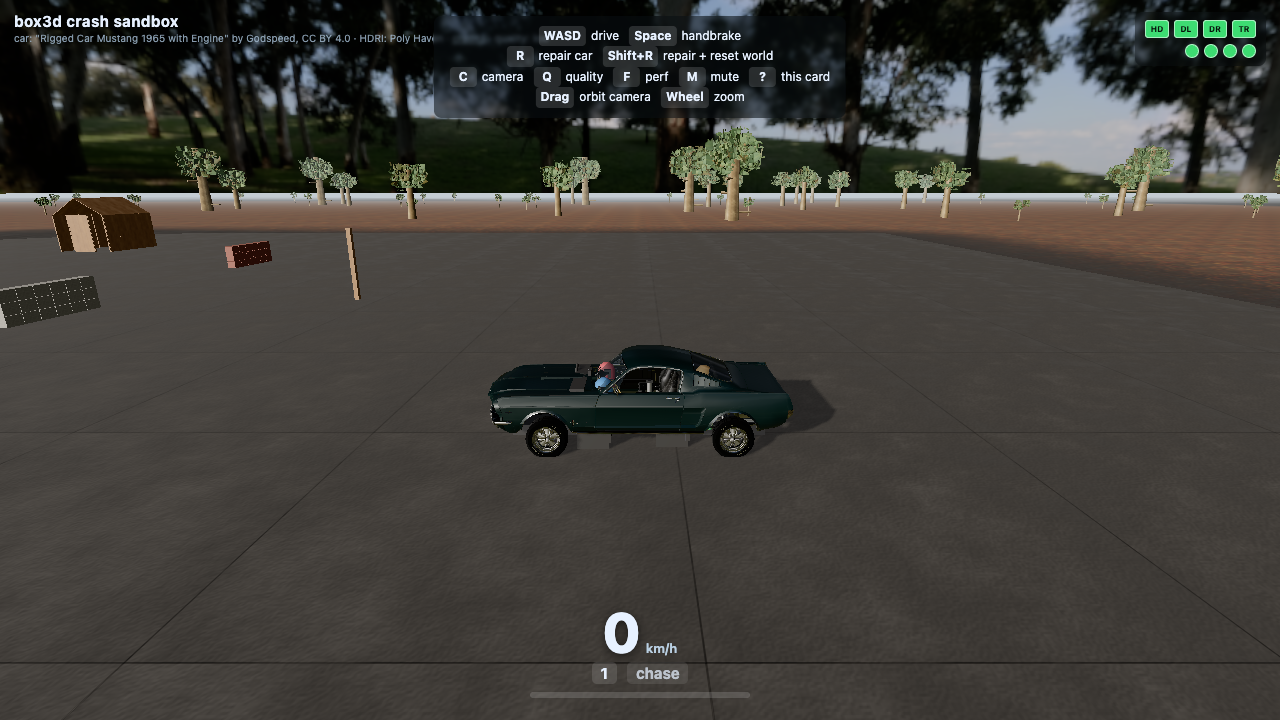
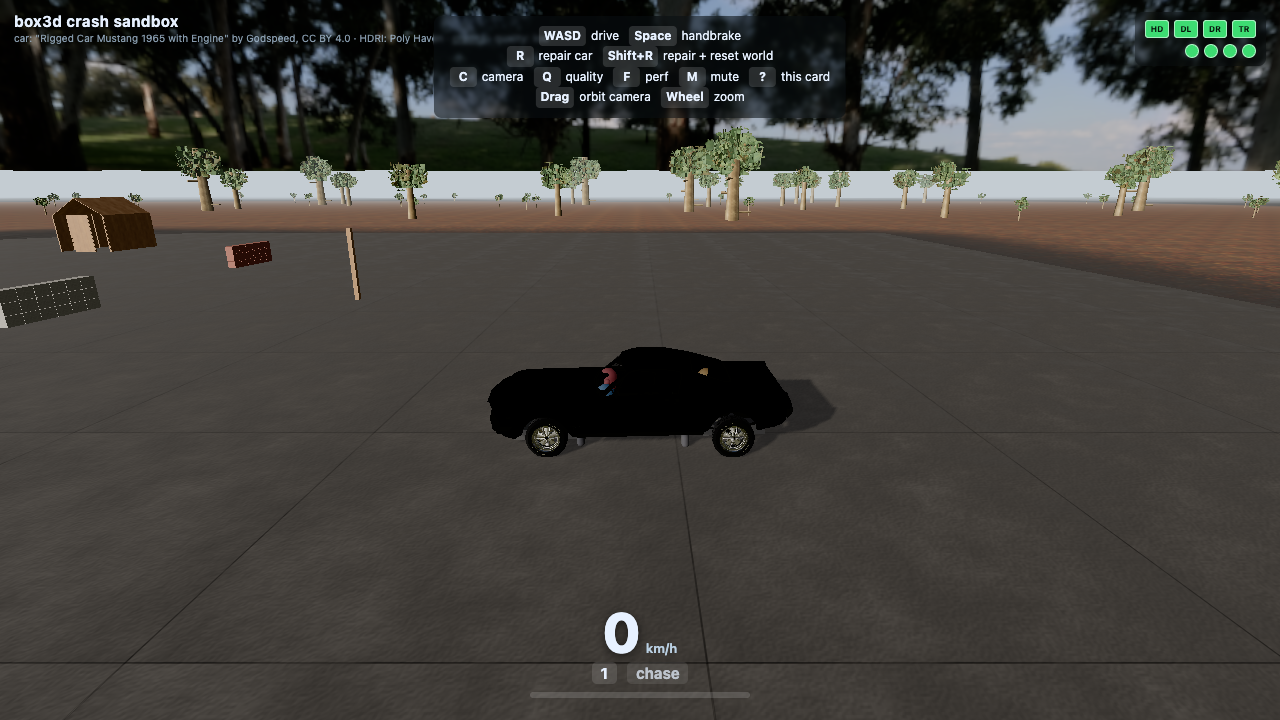
vehicle: Tier-3 stage 1 -- concave cabin-tub chassis (12 convex shapes) + mass parity
Replace the chassis's single convex hull with a ~12-shape concave cabin tub
(floorpan/nose/tail/roof/sills/A-B-C pillars, geometry.ts buildCabinShapes()), giving
the car a genuinely HOLLOW interior cavity for Tier-3 stage 2 to drop occupants into,
per docs/build-log/specs/compound-hull-design.md.

Mass parity is a hard gate and is met EXACTLY, not approximately: createVehicle() first
builds the legacy single-hull+ballast shape set, lets box3d integrate its mass, captures
getMassData(), destroys the temp shapes, builds the real cabin shapes (nominal density),
then stamps the captured mass/COM/inertia back via setMassData(). Result: chassis
mass/COM/inertia are byte-identical to HEAD (1291.000 kg, COM y=0.11969 z=-0.03996,
inertia diag 1125.1/1119.6/454.0), so all vehicle calibration survives untouched.

Outer-envelope parity: the nose reuses the old hull's exact 4 front vertices and the
floorpan spans only the cabin (nose/tail own the bottom in the crush zones) so a frontal
wall hit contacts exactly as the single hull did -- damage-hard-frontal is byte-identical
(dented 51, chassis-front 40, hood displacement 2.20m). Cabin greenhouse sides are left
as real open apertures (no test contacts them); ground clearance unchanged.

Gates: new sim/hull-cabin-tub.test.mjs green (12 shapes, exact mass parity, probe dropped
into the cabin falls through to rest on the floorpan -- impossible against a solid hull);
[…]

Changed region(s): [[0.0, 0.1833, 1.0, 0.3056], [0.375, 0.4583, 0.625, 0.6417]]

diff --git a/game/src/vehicle/geometry.ts b/game/src/vehicle/geometry.ts
@@ -58,6 +58,153 @@ export function buildChassisHullPoints(): Float32Array {
 	return points;
 }
 
+// ---------------------------------------------------------------------------------------------
+// Tier-3 STAGE 1: concave cabin-tub decomposition (docs/build-log/specs/compound-hull-design.md)
+// ---------------------------------------------------------------------------------------------
+// Replaces the single bevelled-box hull (buildChassisHullPoints() above -- KEPT, still used for the
+// mass-parity capture in vehicle.ts) with a set of convex shapes on the one dynamic chassis body.
+// box3d bodies carry N shapes natively (mass accumulates per shape), so N convex shapes = a concave
+// composite with a genuinely HOLLOW cabin cavity -- the interior Tier-3 stage 2 drops the occupant
+// filter into.
+//
+// PARITY PRINCIPLE: mass/COM/inertia are hard-set identical in vehicle.ts via setMassData(), so these
+// shapes' densities are NOMINAL and only their COLLISION geometry matters. The crash/drive tests only
+// ever contact the car FRONT-ON (drive +Z into a wall) or from BELOW (ground/terrain), so the union
+// here reconstructs the old hull's exact FRONT (nose) face, full BOTTOM (floorpan) face, REAR (tail)
+// face and TOP (roof) face; the cabin's greenhouse SIDES (window band) are left as genuine open
+// apertures -- no test contacts them, and that openness is the whole point of the concave cabin.
+//
+// The nose and tail are SOLID crush volumes in stage 1 (identical to the old solid hull there); the
+// engine bay is opened into a cavity only in stage 3. Their inward faces (FIREWALL_Z / BULKHEAD_Z)
+// are the cabin's front/rear walls.
+
+/** Front cabin wall Z (chassis-local): rear face of the solid nose / engine-bay volume. */
+const FIREWALL_Z_M = 0.7;
+/** Rear cabin wall Z: front face of the solid tail / trunk volume. */
+const BULKHEAD_Z_M = -0.64;
+/** Top of the sills / bottom of the window aperture (chassis-local Y). */
+const BELTLINE_Y_M = 0.52;
+/** Top face Y of the floorpan slab (thin: HULL_BOTTOM_Y_M .. this). */
+const FLOORPAN_TOP_Y_M = 0.06;
+/** Bottom of the roof panel / top of the window aperture (chassis-local Y). */
+const CANTRAIL_Y_M = 0.85;
+/** Inboard X face of the sills (cabin floor half-width kept clear inboard of this). */
+const SILL_INNER_X_M = 0.7;
+
+/** Top-face front/rear Z edges of the bevelled envelope (roofline), from the hull tuning. */
+const TOP_FRONT_Z_M = HULL_TOP_CENTER_Z_M + HULL_TOP_HALF_LENGTH_M;
+const TOP_REAR_Z_M = HULL_TOP_CENTER_Z_M - HULL_TOP_HALF_LENGTH_M;
+
+/** Half-width (x) of the bevelled-box envelope at chassis-local height y (linear loft between the
+ * full-footprint bottom and the narrower roofline top -- the SAME loft buildChassisHullPoints()
+ * encodes), so every reconstructed outer face sits exactly on the old hull's bevelled side surface. */
+function envHalfWidth(y: number): number {
+	const t = (y - HULL_BOTTOM_Y_M) / (HULL_TOP_Y_M - HULL_BOTTOM_Y_M);
+	return HULL_BOTTOM_HALF_WIDTH_M + (HULL_TOP_HALF_WIDTH_M - HULL_BOTTOM_HALF_WIDTH_M) * t;
+}
+
+/** 8-corner box as a flat (x,y,z) point cloud (box3d computes the hull). */
+function boxPoints(minX: number, maxX: number, minY: number, maxY: number, minZ: number, maxZ: number): Float32Array {
+	// prettier-ignore
+	return new Float32Array([
+		minX, minY, minZ,  maxX, minY, minZ,  maxX, minY, maxZ,  minX, minY, maxZ,
+		minX, maxY, minZ,  maxX, maxY, minZ,  maxX, maxY, maxZ,  minX, maxY, maxZ,
+	]);
+}
+
+export interface CabinShapeDef {
+	name: string;
+	points: Float32Array;
+}
+
+/**
+ * The chassis's concave cabin-tub decomposition: ~12 convex shapes (flattened (x,y,z) point clouds in
+ * chassis-local space) whose union reconstructs the old hull's front/bottom/rear/top surfaces while
+ * leaving the cabin greenhouse a hollow, open-window cavity. See this section's doc comment.
+ */
+export function buildCabinShapes(): CabinShapeDef[] {
+	const by = HULL_BOTTOM_Y_M;
+	const ty = HULL_TOP_Y_M;
+	const bhw = HULL_BOTTOM_HALF_WIDTH_M;
+	const bhl = HULL_BOTTOM_HALF_LENGTH_M;
+	const thw = HULL_TOP_HALF_WIDTH_M;
+	const belt = BELTLINE_Y_M;
+	const sw = envHalfWidth(belt); // envelope half-width at the beltline (top of the sills)
+
+	const shapes: CabinShapeDef[] = [];
+
+	// 1. Floorpan: thin bottom slab spanning the CABIN only. The nose and tail are solid down to the
+	//    footprint bottom over their own z-ranges, so together the three abutting slabs reconstruct the
+	//    full flat BOTTOM face (ground clearance) with NO overlap into the crush zones -- an overlapping
+	//    floorpan would double-fire hit events with the nose on a frontal wall hit and inflate the dent.
+	shapes.push({ name: 'floorpan', points: boxPoints(-bhw, bhw, by, FLOORPAN_TOP_Y_M, BULKHEAD_Z_M, FIREWALL_Z_M) });
+
+	// 2. Nose crush volume (solid): front face = the old hull's EXACT 4 front vertices (bevel preserved),
+	//    swept back to the firewall. This is the face every frontal crash test contacts.
+	// prettier-ignore
+	shapes.push({ name: 'nose', points: new Float32Array([
+		-bhw, by, bhl,   bhw, by, bhl,                         // front-bottom (full width, footprint front)
+		-thw, ty, TOP_FRONT_Z_M,  thw, ty, TOP_FRONT_Z_M,      // front-top (roofline front, set back = bevel)
+		-bhw, by, FIREWALL_Z_M,   bhw, by, FIREWALL_Z_M,       // back-bottom at the firewall
+		-thw, ty, FIREWALL_Z_M,   thw, ty, FIREWALL_Z_M,       // back-top at the firewall
+	]) });
+
+	// 3. Tail crush volume (solid): rear face = the old hull's EXACT 4 rear vertices, swept to the bulkhead.
+	// prettier-ignore
+	shapes.push({ name: 'tail', points: new Float32Array([
+		-bhw, by, -bhl,  bhw, by, -bhl,                        // rear-bottom (footprint rear)
+		-thw, ty, TOP_REAR_Z_M,   thw, ty, TOP_REAR_Z_M,       // rear-top (roofline rear)
+		-bhw, by, BULKHEAD_Z_M,   bhw, by, BULKHEAD_Z_M,       // front-bottom at the bulkhead
+		-thw, ty, BULKHEAD_Z_M,   thw, ty, BULKHEAD_Z_M,       // front-top at the bulkhead
+	]) });
+
+	// 4. Roof panel: thin top slab over the cabin greenhouse -- reproduces the TOP face for the cabin gap
+	//    (nose/tail already cover the top outside [BULKHEAD_Z, FIREWALL_Z]; small overlap avoids a seam).
+	shapes.push({ name: 'roof', points: boxPoints(-thw, thw, CANTRAIL_Y_M, ty, TOP_REAR_Z_M + 0.35, TOP_FRONT_Z_M) });
+
+	// 5/6. Sills: lower cabin side walls (below the beltline), outer face bevelled onto the envelope side,
+	//      inboard face at SILL_INNER_X_M leaving the cabin floor open. Left = +X, right = -X.
+	// prettier-ignore
+	const sillL = new Float32Array([
+		SILL_INNER_X_M, by, BULKHEAD_Z_M,  bhw, by, BULKHEAD_Z_M,  bhw, by, FIREWALL_Z_M,  SILL_INNER_X_M, by, FIREWALL_Z_M,
+		SILL_INNER_X_M, belt, BULKHEAD_Z_M, sw,  belt, BULKHEAD_Z_M, sw, belt, FIREWALL_Z_M, SILL_INNER_X_M, belt, FIREWALL_Z_M,
+	]);
+	shapes.push({ name: 'sillL', points: sillL });
+	shapes.push({ name: 'sillR', points: mirrorX(sillL) });
+
+	// 7-12. A/B/C pillars: thin verticals bridging the sill top and the roof at the cabin corners/mid,
+	//       leaving the window apertures open BETWEEN them. Placed outboard (near the doors), clear of the
+	//       seated occupants that stage 2 drops into the cavity. Left = +X, right = -X.
+	const pillarZ: Record<string, [number, number]> = {
+		A: [FIREWALL_Z_M - 0.18, FIREWALL_Z_M], // windshield base
+		B: [-0.09, 0.09], // mid cabin
+		C: [BULKHEAD_Z_M, BULKHEAD_Z_M + 0.18], // rear
+	};
+	const px0 = 0.66;
+	const px1 = 0.8;
+	const py0 = belt - 0.02;
+	const py1 = CANTRAIL_Y_M + 0.01;
+	for (const key of ['A', 'B', 'C'] as const) {
+		const [z0, z1] = pillarZ[key];
+		const left = boxPoints(px0, px1, py0, py1, z0, z1);
+		shapes.push({ name: `pillar${key}L`, points: left });
+		shapes.push({ name: `pillar${key}R`, points: mirrorX(left) });
+	}
+
+	return shapes;
+}
+
+/** Mirror a flat (x,y,z) point cloud across the X=0 plane (left -> right cabin shape). */
+function mirrorX(points: Float32Array): Float32Array {
+	const out = new Float32Array(points.length);
+	for (let i = 0; i < points.length; i += 3) {
+		out[i] = -points[i];
+		out[i + 1] = points[i + 1];
+		out[i + 2] = points[i + 2];
+	}
+	return out;
+}
+
 export interface MassProps {
 	mass: number;
 	centroid: V3;

diff --git a/game/src/vehicle/vehicle.ts b/game/src/vehicle/vehicle.ts
@@ -12,7 +12,7 @@
 
 import { Body, BodyType, Shape, World, WheelJoint, type Quat, type Vec3 } from '../../../src/ts/index.js';
 import { createPanels, resetAttachedPanels, type PanelHandle, type PanelKey } from '../damage/panels';
-import { buildChassisHullPoints, solveChassisDensities } from './geometry';
+import { buildCabinShapes, buildChassisHullPoints, solveChassisDensities } from './geometry';
 import {
 	add,
 	clamp,
@@ -192,11 +192,12 @@ export interface WheelHandle {
 export interface Vehicle {
 	world: World;
 	chassis: Body;
-	/** @internal chassis shapes (hull + COM sensor ballast + any test-only sprung ballast), kept only so
-	 * destroyVehicle() can explicitly destroy them before destroying the chassis body (see that
-	 * function's doc comment) -- createVehicle() itself never reads these back. `testBallast` is empty in
-	 * the real game (the sprungBallast arg below is a sim-only knob). */
-	chassisShapes: { hull: Shape; ballast: Shape; testBallast: Shape[] };
+	/** @internal chassis collision shapes -- the Tier-3 concave cabin-tub decomposition (~12 convex
+	 * shapes: floorpan/nose/tail/roof/sills/pillars, see geometry.ts buildCabinShapes()). Kept only so
+	 * destroyVehicle() can explicitly destroy each before destroying the chassis body (see that
+	 * function's doc comment) -- createVehicle() itself never reads these back. Mass/COM/inertia are
+	 * hard-set via setMassData() to the pre-Tier-3 single-hull values, so no ballast shape is needed. */
+	chassisShapes: { cabin: Shape[] };
 	wheels: Record<WheelKey, WheelHandle>;
 	/** The 5 damage-system panel bodies (game/src/damage/panels.ts), rigidly welded to the chassis --
 	 * see that module's createPanels() doc comment for why panels are part of the core assembly. */
@@ -338,31 +339,27 @@ export function createVehicle(
 	});
 
 	const solved = solveChassisDensities();
-	const hullPoints = buildChassisHullPoints();
-	// enableHitEvents: the damage system (game/src/damage/system.ts) reacts to hit events on the
-	// chassis (crash impacts) to drive plastic-crumple deformation + accumulated weld stress.
-	// groupIndex: CAR_GROUP_INDEX (shared, negative) on every car shape -- see tuning.ts's doc
-	// comment -- so the chassis hull never self-collides with wheels/panels.
-	const hullShape = chassis.createHullShape(hullPoints, {
+
+	// ---- Tier-3 STAGE 1: concave cabin tub + MASS PARITY (docs/build-log/specs/compound-hull-design.md)
+	// The chassis is now a HOLLOW multi-shape composite (geometry.ts buildCabinShapes()), not one convex
+	// hull. To keep ALL vehicle calibration byte-identical, its mass/COM/inertia are hard-set to what the
+	// pre-Tier-3 single-hull chassis produced: build that exact legacy shape set FIRST, let box3d compute
+	// its mass data, capture it, then destroy those temp shapes and stamp the captured MassData back onto
+	// the real (cabin-shape) body via setMassData(). No world.step() happens in between, so the temp
+	// legacy shapes never collide -- they exist purely to reproduce the engine's own mass integration.
+	const TEST_BALLAST_RADIUS_M = 0.15;
+	const legacyHull = chassis.createHullShape(buildChassisHullPoints(), {
 		density: solved.hullDensity,
-		friction: 0.8,
-		enableHitEvents: true,
 		groupIndex: CAR_GROUP_INDEX,
 	});
-	const ballastShape = chassis.createSphereShape({
+	const legacyBallast = chassis.createSphereShape({
 		radius: BALLAST_RADIUS_M,
 		center: { x: 0, y: BALLAST_LOCAL_Y_M, z: 0 },
 		density: solved.ballastDensity,
 		isSensor: true,
 		groupIndex: CAR_GROUP_INDEX,
 	});
-	// SIM-ONLY laden ballast (empty in the real game): each entry is a small, high-density isSensor
-	// sphere welded into the chassis at its chassis-local center, so the composite chassis mass/COM the
-	// suspension springs support matches the full game's cardetail+occupant sprung load. isSensor keeps
-	// it collision-inert (like the COM ballast above) while still contributing mass -- b3UpdateBodyMassData
-	// accumulates over every shape, sensor or not (see body.c / BALLAST_RADIUS_M's doc comment).
-	const TEST_BALLAST_RADIUS_M = 0.15;
-	const testBallast: Shape[] = sprungBallast.map((b) =>
+	const legacyTestBallast: Shape[] = sprungBallast.map((b) =>
 		chassis.createSphereShape({
 			radius: TEST_BALLAST_RADIUS_M,
 			center: b.localCenterM,
@@ -371,9 +368,28 @@ export function createVehicle(
 			groupIndex: CAR_GROUP_INDEX,
 		}),
 	);
-	// Defensive: the createXShape calls above already trigger b3UpdateBodyMassData each time
-	// (see body.c), but recompute explicitly in case that default ever changes.
 	chassis.applyMassFromShapes();
+	const massParity = chassis.getMassData(); // exact HEAD chassis mass/COM/inertia (incl. sim ballast)
+	legacyHull.destroy(false);
+	legacyBallast.destroy(false);
+	for (const b of legacyTestBallast) b.destroy(false);
+
+	// Build the real collision geometry: the ~12 convex cabin-tub shapes. Densities are NOMINAL (mass is
+	// overridden below); only geometry matters. enableHitEvents on every shape so a crash contacting ANY
+	// exterior face drives the damage system's plastic crumple exactly as the single hull did (they carry
+	// no own userData, so hit events fall back to the chassis body's CAR_ENTITY_ID.chassis tag).
+	// groupIndex CAR_GROUP_INDEX so no cabin shape self-collides with wheels/panels/occupants.
+	const cabinShapes: Shape[] = buildCabinShapes().map((def) =>
+		chassis.createHullShape(def.points, {
+			density: solved.hullDensity,
+			friction: 0.8,
+			enableHitEvents: true,
+			groupIndex: CAR_GROUP_INDEX,
+		}),
+	);
+	// Stamp mass parity. setMassData is retained as long as no shape is added/removed afterward -- wheels
+	// and panels below are SEPARATE bodies, so this holds for the chassis body's whole lifetime.
+	chassis.setMassData(massParity);
 
 	const wheels = {} as Record<WheelKey, WheelHandle>;
 	for (const def of WHEEL_DEFS) {
@@ -439,7 +455,7 @@ export function createVehicle(
 	return {
 		world,
 		chassis,
-		chassisShapes: { hull: hullShape, ballast: ballastShape, testBallast },
+		chassisShapes: { cabin: cabinShapes },
 		wheels,
 		panels,
 		gearbox: createGearboxState(),
@@ -499,9 +515,7 @@ export function destroyVehicle(vehicle: Vehicle): void {
 			p.body.destroy();
 		}
 	}
-	vehicle.chassisShapes.hull.destroy(false);
-	vehicle.chassisShapes.ballast.destroy(false);
-	for (const b of vehicle.chassisShapes.testBallast) b.destroy(false);
+	for (const s of vehicle.chassisShapes.cabin) s.destroy(false);
 	vehicle.chassis.destroy();
 }
 

diff --git a/game/src/audio/carShapes.ts b/game/src/audio/carShapes.ts
@@ -26,7 +26,9 @@ import { PANEL_KEYS } from '../damage/panels';
  * stale (and lose its contact-events flag) across either event. enableContactEvents() itself is
  * idempotent and cheap (a single flag set), so re-arming every step is negligible. */
 export function collectCarShapes(vehicle: Vehicle, damageSystem: DamageSystem): Shape[] {
-	const shapes: Shape[] = [vehicle.chassisShapes.hull];
+	// Tier-3: the chassis is now the concave cabin-tub decomposition (~12 convex shapes), not one hull --
+	// arm contact events on every exterior cabin shape so a scrape/grind/rollover on ANY face still voices.
+	const shapes: Shape[] = [...vehicle.chassisShapes.cabin];
 	for (const key of PANEL_KEYS) {
 		const panel = damageSystem.panels[key];
 		if (!panel.despawned) shapes.push(panel.shape);
